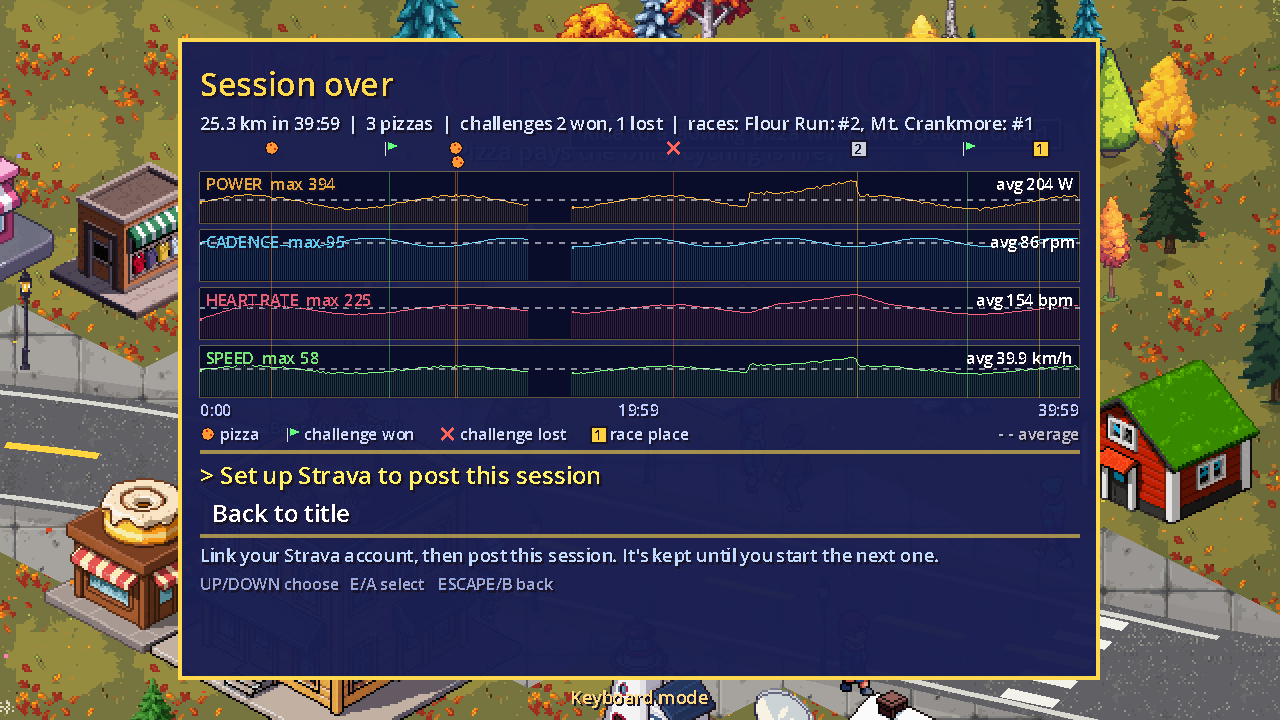
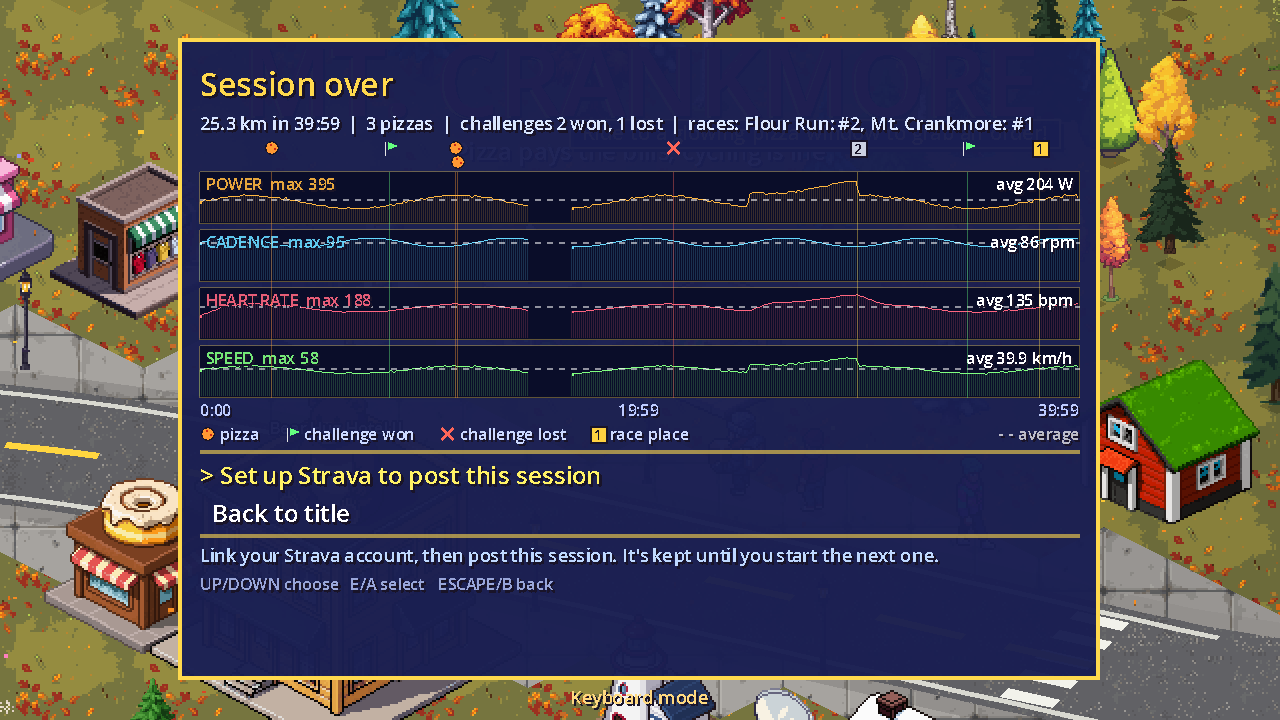
Site: a Track your stats section with the Weehoo, the Session over screen and Strava
The Session over screenshot is retaken from the current game (PIZZA_DEBUG=session)
and moves out of the town section into its own, with what the bike computer shows
while you ride, what the end-of-session screen records, and what a Strava post
carries. Heart rate is marked as coming next.

diff --git a/docs/index.html b/docs/index.html
@@ -175,6 +175,12 @@
   .course ul { margin: 0; padding-left: 20px; color: var(--muted); font-size: 15px; }
   .course li { margin: 2px 0; }
 
+  .statlist { display: grid; grid-template-columns: repeat(auto-fill, minmax(200px, 1fr)); gap: 12px; margin: 18px 0 0; }
+  .statlist div { border-left: 4px solid var(--sky); padding: 2px 0 2px 12px; }
+  .statlist b { display: block; }
+  .statlist span { color: var(--muted); font-size: 15px; }
+  .shot.wide { margin: 28px 0 0; }
+
   footer { padding: 40px 0 56px; text-align: center; color: var(--muted); font-size: 15px; }
   footer .tagline { margin-bottom: 10px; }
 
@@ -201,6 +207,7 @@
       <li><a href="#bikes">Bikes</a></li>
       <li><a href="#rivals">Rivals</a></li>
       <li><a href="#courses">Courses</a></li>
+      <li><a href="#stats">Stats</a></li>
       <li><a href="#next">Coming next</a></li>
       <li><a href="#download">Download</a></li>
     </ul>
@@ -255,7 +262,7 @@
   <div class="wrap">
     <h2>A town that keeps busy</h2>
     <p class="intro">Day turns to night, the seasons change and there's always something going on: parades, fireworks, runaway dogs and robberies to break up.</p>
-    <div class="features three">
+    <div class="features">
       <figure>
         <img src="delivery.png" alt="Delivering a pizza through town, steam rising off the box" width="1280" height="720" loading="lazy">
         <figcaption><h3>Deliver hot</h3><p>Grab an order from a glowing pizza window and get it there before it goes cold. The other couriers want it too.</p></figcaption>
@@ -263,10 +270,6 @@
       <figure>
         <img src="night.png" alt="The village at night with the street lamps on" width="1280" height="720" loading="lazy">
         <figcaption><h3>Day, night and four seasons</h3><p>An hour-long day, street lamps at dusk, rain from spring to fall and snow all winter.</p></figcaption>
-      </figure>
-      <figure>
-        <img src="session.png" alt="The Session over screen: power, cadence, heart rate and speed charts with markers for pizzas and races" width="1280" height="720" loading="lazy">
-        <figcaption><h3>See what you rode</h3><p>When you finish, a timeline shows your power, cadence and speed, with every pizza, challenge and race result marked on it.</p></figcaption>
       </figure>
     </div>
   </div>
@@ -559,7 +562,58 @@
   </div>
 </section>
 
-<section class="band" id="next">
+<section class="band" id="stats">
+  <div class="wrap">
+    <h2>Track your stats</h2>
+    <p class="intro">Every ride counts. The game logs your session from the moment you hit New game or Continue until you quit to the title, and shows you exactly what you rode.</p>
+
+    <div class="features">
+      <figure>
+        <img src="bear.png" alt="The Weehoo bike computer in a race: elevation profile, speed, watts, position and grade, beside a crashed rider and a bear" width="1280" height="720" loading="lazy">
+      </figure>
+      <div>
+        <h3>On the bike: the Weehoo</h3>
+        <p style="color:var(--muted);margin:0">A little bike computer rides in the corner of the screen the whole time, like the one on your bars.</p>
+        <div class="statlist">
+          <div><b>Speed and watts</b><span>Your live speed and power, with a strip of lights across the top that climbs through the power zones as you push towards your FTP and past it.</span></div>
+          <div><b>Grade and gear</b><span>The slope under your wheels, and which of the 21 gears you're in.</span></div>
+          <div><b>The course map</b><span>In a race, the elevation profile with every rider on it, the distance left and the clock.</span></div>
+          <div><b>Race position</b><span>Your place, with the time gaps to every rival in the standings.</span></div>
+          <div><b>Cadence and HP</b><span>Your rpm, and how much life your bike has left (or, riding on the keyboard, how much is left in your legs).</span></div>
+          <div><b>Power-up</b><span>Whatever you're carrying, ready to fire.</span></div>
+        </div>
+      </div>
+    </div>
+
+    <div class="shot wide"><img src="session.png" alt="The Session over screen: 25.3 km in 39:59, 3 pizzas, challenges and race placings, with power, cadence, heart rate and speed charts and their averages (the heart rate chart is coming next)" width="1280" height="720" loading="lazy"></div>
+
+    <div class="features" style="margin-top:28px">
+      <div>
+        <h3>When you stop: Session over</h3>
+        <p style="color:var(--muted);margin:0 0 10px">Quit to the title and you get the whole session on one screen.</p>
+        <div class="statlist">
+          <div><b>The headline</b><span>Distance and time, pizzas delivered, challenges won and lost, and where you placed in every race.</span></div>
+          <div><b>Four charts</b><span>Power, cadence, speed and (coming next) heart rate over the session, each with its max and a dashed average line.</span></div>
+          <div><b>A timeline</b><span>Markers along the top for every pizza, challenge and race result, so you can see which effort was which.</span></div>
+          <div><b>Honest numbers</b><span>Pauses leave a gap rather than a flat line, and riding on the keyboard never makes up watts.</span></div>
+        </div>
+      </div>
+      <div>
+        <h3>Then: Strava</h3>
+        <p style="color:var(--muted);margin:0 0 10px">Link your account once and post the session from the same screen.</p>
+        <div class="statlist">
+          <div><b>A Virtual Ride</b><span>With distance, speed, climbing, power and cadence, and heart rate from the next update.</span></div>
+          <div><b>A title and notes</b><span>Like "Mt. Crankmore: 3 pizzas and 1 race win", with your challenges, race results and averages in the description.</span></div>
+          <div><b>Screenshots</b><span>Up to four from the ride (scenery, deliveries, races and the session chart), saved in a folder ready to drag onto the activity.</span></div>
+          <div><b>No rush</b><span>The session stays postable from the title screen until you start the next one.</span></div>
+        </div>
+      </div>
+    </div>
+    <p class="small" style="margin-top:20px">Heart rate, coming next, comes from a Bluetooth strap, or ANT+ through a Wahoo trainer. The pause menu keeps your all-time totals: money, deliveries and races won.</p>
+  </div>
+</section>
+
+<section id="next">
   <div class="wrap next">
     <div>
       <h2>Coming next</h2>
@@ -575,7 +629,7 @@
   </div>
 </section>
 
-<section>
+<section class="band">
   <div class="wrap">
     <h2>Getting started</h2>
     <p class="intro">Download the build for your computer and you're riding in a minute.</p>
